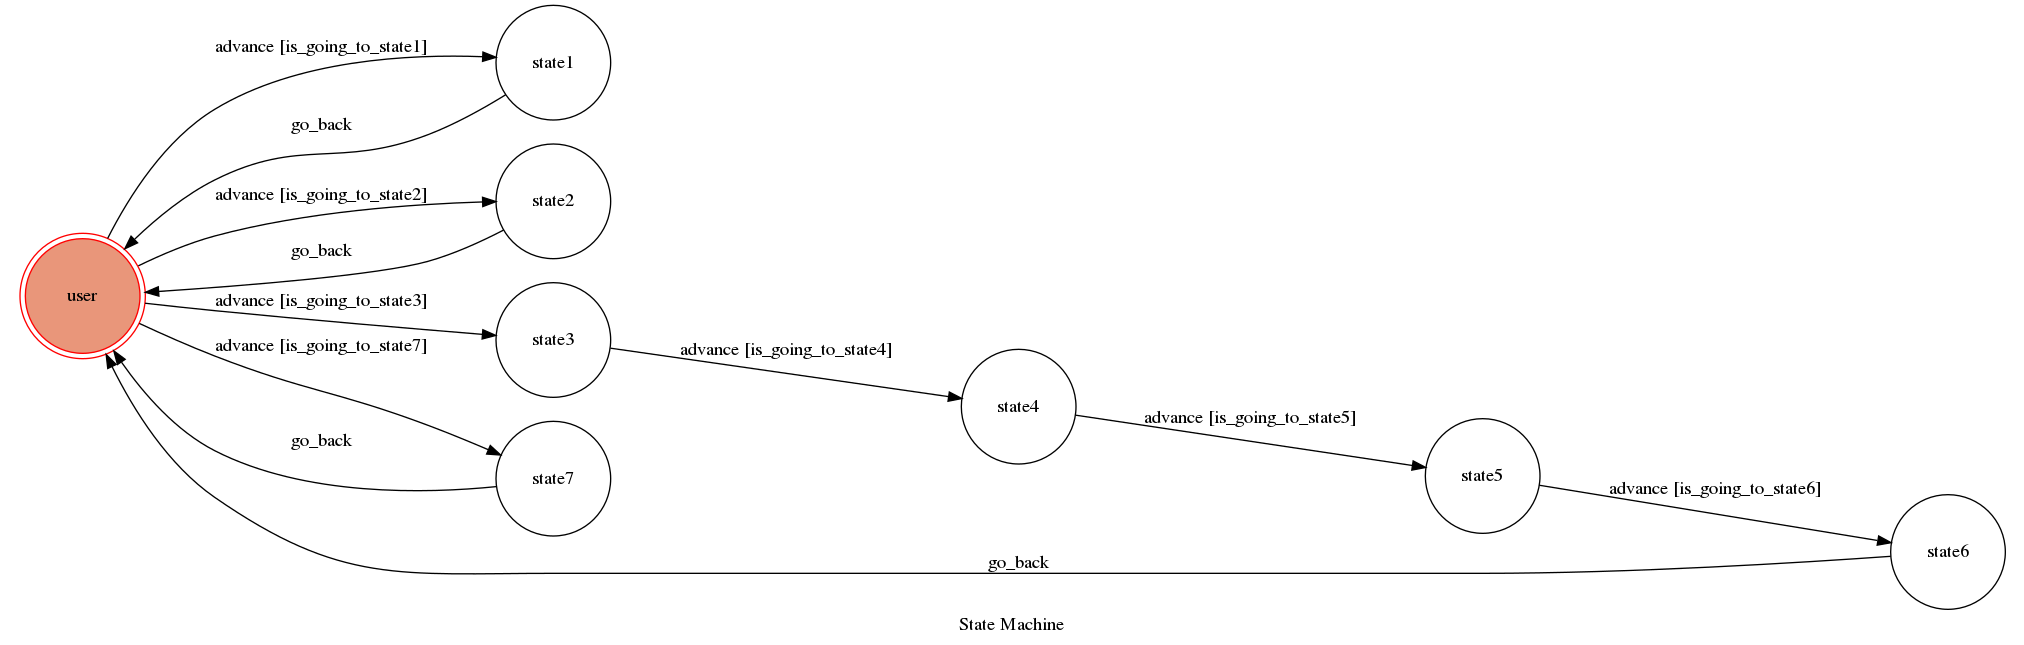
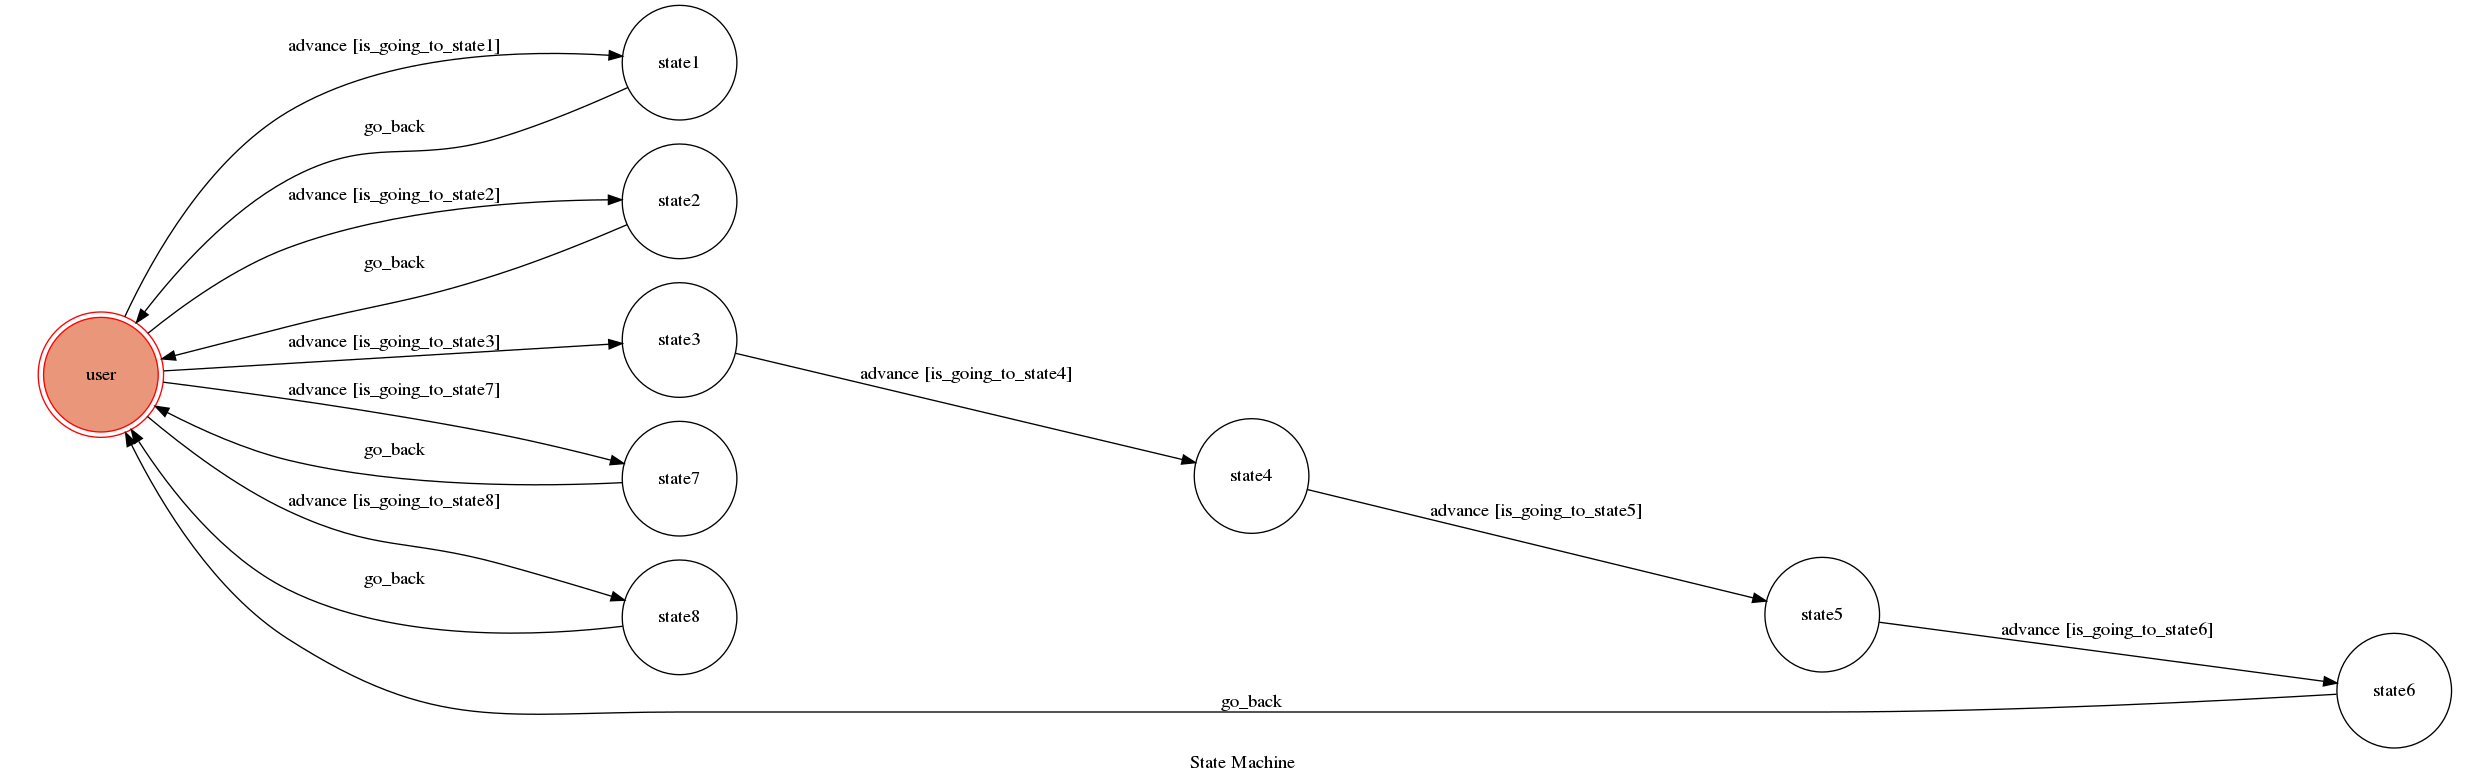
moomi with button

diff --git a/fsm.py b/fsm.py
@@ -2,6 +2,7 @@ from transitions.extensions import GraphMachine
 
 from utils import send_text_message
 from utils import send_img_message
+from utils import send_button_message
 
 from random import randint
 import json
@@ -14,14 +15,14 @@ class TocMachine(GraphMachine):
         )
 
     def is_going_to_state1(self, event):
-        if event.get("message"):
-            text = event['message']['text']
+        if event.get("postback"):
+            text = event['postback'].get('payload')
             return text.lower() == '你是誰'
         return False
 
     def is_going_to_state2(self, event):
-        if event.get("message"):
-            text = event['message']['text']
+        if event.get("postback"):
+            text = event['postback'].get('payload')
             return text.lower() == '抽姆咪'
         return False
     
@@ -50,9 +51,15 @@ class TocMachine(GraphMachine):
         return False
 
     def is_going_to_state7(self, event):
+        if event.get("postback"):
+            text = event['postback'].get('payload')
+            return text.lower() == '我想要女主人'
+        return False
+
+    def is_going_to_state8(self, event):
         if event.get("message"):
             text = event['message']['text']
-            return text.lower() == '我想要女主人'
+            return text.lower() == '嗨'
         return False
 
     def on_enter_state1(self, event):
@@ -161,3 +168,28 @@ class TocMachine(GraphMachine):
 
     def on_exit_state7(self):
         print('Leaving state7 for pick a girl')
+
+    def on_enter_state8(self, event):
+        print("I'm entering state8 for buttons")
+
+        sender_id = event['sender']['id']
+        
+        buttons = [{
+            'type': 'postback',
+            'title': "你是誰",
+            'payload': '你是誰'
+        },{
+            'type': 'postback',
+            'title': "抽姆咪",
+            'payload': '抽姆咪'
+        },{
+            'type': 'postback',
+            'title': "我想要女主人",
+            'payload': '我想要女主人'
+        }]
+        
+        send_button_message(sender_id, "嗨,我是姆咪,你想做什麼呢？", buttons)
+        self.go_back()
+
+    def on_exit_state8(self):
+        print("Leaving state8")

diff --git a/app.py b/app.py
@@ -11,7 +11,7 @@ import json
 import os
 import pygraphviz
 
-PORT = os.environ['PORT']
+#PORT = os.environ['PORT']
 
 VERIFY_TOKEN = "moomimoomishindongdong"
 machine = TocMachine(
@@ -23,7 +23,8 @@ machine = TocMachine(
         'state4',
         'state5',
         'state6',
-        'state7'
+        'state7',
+        'state8'
     ],
     transitions=[
         {
@@ -69,12 +70,19 @@ machine = TocMachine(
             'conditions': 'is_going_to_state7'
         },
         {
+            'trigger': 'advance',
+            'source': 'user',
+            'dest': 'state8',
+            'conditions': 'is_going_to_state8'
+        },
+        {
             'trigger': 'go_back',
             'source': [
                 'state1',
                 'state2',
                 'state6',
-                'state7'
+                'state7',
+                'state8'
             ],
             'dest': 'user'
         }       
@@ -197,6 +205,7 @@ if __name__ == "__main__":
         # 儲存文章資訊
         with open('data.json', 'w', encoding='utf-8') as f:
             json.dump(temp_url, f, indent=2, sort_keys=True, ensure_ascii=False)
+    
 
-    #run(host="localhost", port=5000, debug=True, reloader=True)
-    run(host="0.0.0.0", port=PORT, debug=True, reloader=True)
+    run(host="localhost", port=5000, debug=True, reloader=True)
+    #run(host="0.0.0.0", port=PORT, debug=True, reloader=True)

diff --git a/utils.py b/utils.py
@@ -2,7 +2,7 @@ import requests
 import json
 
 GRAPH_URL = "https://graph.facebook.com/v2.6"
[2 lines of base64/hex data omitted]
 
 def send_text_message(id, text):
     url = "{0}/me/messages?access_token={1}".format(GRAPH_URL, ACCESS_TOKEN)
@@ -35,7 +35,23 @@ def send_img_message(fb_id, image_url):
 
     return response
 
-"""
 def send_button_message(id, text, buttons):
-    pass
-"""
+    url = "{0}/me/messages?access_token={1}".format(GRAPH_URL, ACCESS_TOKEN)
+    payload = {
+        "recipient": {"id": id},
+        "message":{
+            "attachment":{
+                "type": "template",
+                "payload": {
+                    "template_type":"button",
+                    "text": text,
+                    "buttons": buttons
+                }
+            }
+        }
+    }
+    response = requests.post(url, json=payload)
+    if response.status_code != 200:
+        print("Unable to send message: " + response.text)
+
+    return response
